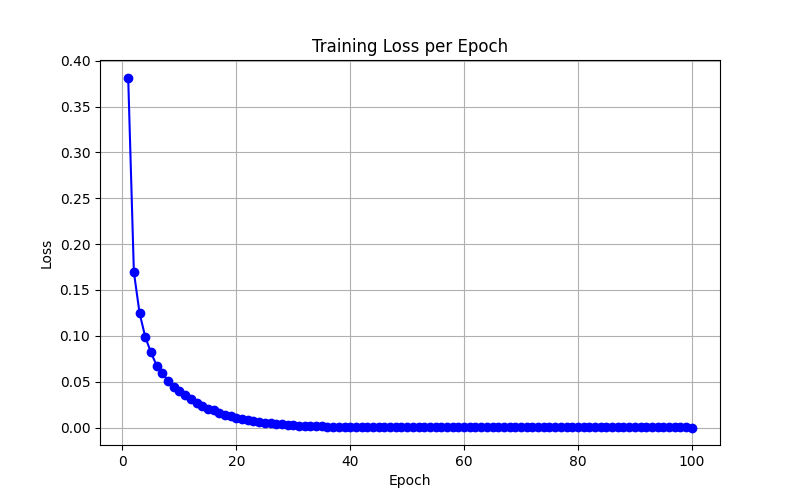
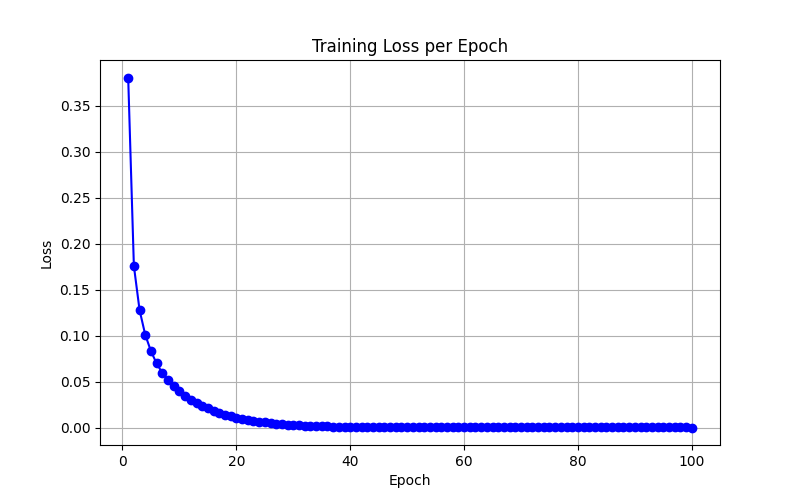
Minor fixes

diff --git a/mnist_project/src/train.py b/mnist_project/src/train.py
@@ -49,6 +49,7 @@ def train_network(epochs = 10, batch_size = 64, learning_rate = 0.001):
     plt.ylabel("Loss")
     plt.grid(True)
     plt.savefig("training_loss.png")
+    print("✅ Loss X Epochs Graph as training_loss.png")
 
 
     y_pred = ann.forward_prop(X_test)
